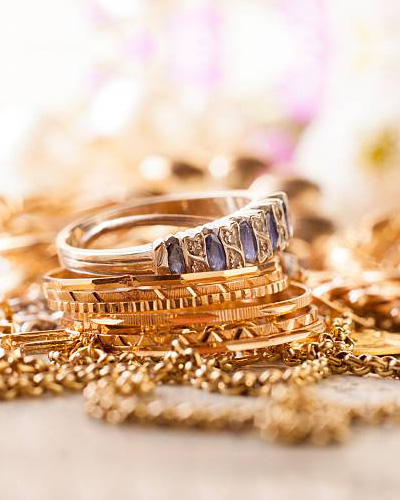
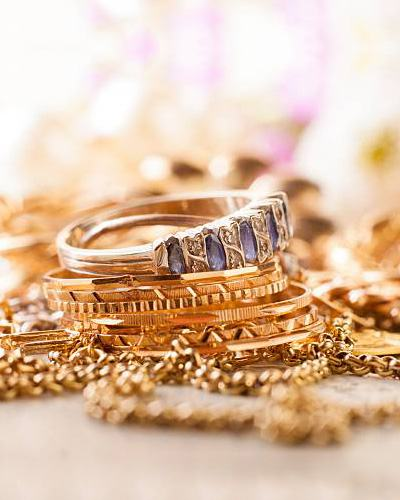
Gold Exchange preview: readability and load-speed pass
Sentence-case card and section headings, readable manifesto at rest, gallery
descriptions always visible, plainer hero copy, gold objects kept out of the text
zones, 3+2 benefit grid on laptops, stat numbers fixed, shorter loader, lower pixel
ratio and particle count, compressed photos and logo, lazy-loaded images.

Claude-Session: https://claude.ai/code/session_013mK6Kfmv34ExVKnmXmT2bB

diff --git a/clients/gold-exchange/css/style.css b/clients/gold-exchange/css/style.css
@@ -5,7 +5,7 @@
 :root{
   --bg:#070A12; --bg-2:#0B1120; --bg-3:#0F1628; --navy:#16202F; --navy-2:#1F4579;
   --gold:#F7A51C; --gold-2:#FBB033; --gold-deep:#B8720A; --gold-light:#FFE08A; --gold-pale:#FFF1C9;
-  --ivory:#F5EFE3; --ivory-2:#D9D2C5; --muted:#98A2B3; --muted-2:#6B7382;
+  --ivory:#F5EFE3; --ivory-2:#D9D2C5; --muted:#A6AFBF; --muted-2:#6B7382;
   --line:rgba(247,165,28,.16); --line-2:rgba(255,255,255,.08); --glass:rgba(13,18,34,.62);
   --display:"Syne",sans-serif; --body:"Inter",system-ui,-apple-system,"Segoe UI",Roboto,sans-serif;
   --metal:linear-gradient(110deg,#FFE9A8 0%,#F7A51C 28%,#B8720A 52%,#FFD873 76%,#F7A51C 100%);
@@ -42,9 +42,9 @@ ul{list-style:none}
 main{position:relative;z-index:1}
 
 /* ---------- Typography ---------- */
-.display{font-family:var(--display);font-weight:800;letter-spacing:-.03em;line-height:.92;text-transform:uppercase}
+.display{font-family:var(--display);font-weight:800;letter-spacing:-.02em;line-height:.94;text-transform:uppercase}
 .h1{font-size:clamp(30px,min(8.6vw,15.5vh),140px)}
-.h2{font-size:clamp(30px,6.2vw,96px)}
+.h2{font-size:clamp(30px,5.4vw,84px)}
 .h3{font-size:clamp(26px,3.2vw,44px);line-height:1.02}
 .h4{font-family:var(--display);font-weight:700;font-size:clamp(19px,1.6vw,24px);line-height:1.15;letter-spacing:-.01em}
 .metal{background:var(--metal);background-size:220% 100%;-webkit-background-clip:text;background-clip:text;color:transparent;animation:shine 6s linear infinite}
@@ -52,7 +52,7 @@ main{position:relative;z-index:1}
 .outline{color:transparent;-webkit-text-stroke:1px rgba(247,165,28,.55)}
 .eyebrow{display:inline-flex;align-items:center;gap:14px;font-size:12px;font-weight:600;letter-spacing:.22em;text-transform:uppercase;color:var(--gold)}
 .eyebrow::before{content:"";width:34px;height:1px;background:var(--gold)}
-.lede{font-size:clamp(17px,1.35vw,21px);line-height:1.55;color:var(--ivory-2);max-width:62ch}
+.lede{font-size:clamp(17px,1.35vw,21px);line-height:1.6;color:var(--ivory-2);max-width:60ch}
 .small{font-size:13px;color:var(--muted)}
 p a{color:var(--gold)}
 
@@ -94,7 +94,7 @@ section{position:relative}
 
 /* ---------- Cursor ---------- */
 .cursor{position:fixed;left:0;top:0;z-index:999;pointer-events:none;mix-blend-mode:normal}
-.cursor-dot{position:absolute;width:6px;height:6px;border-radius:50%;background:var(--gold);transform:translate(-50%,-50%)}
+.cursor-dot{position:absolute;width:8px;height:8px;border-radius:50%;background:var(--gold);transform:translate(-50%,-50%)}
 .cursor-ring{position:absolute;width:40px;height:40px;border-radius:50%;border:1px solid rgba(247,165,28,.7);transform:translate(-50%,-50%);display:grid;place-items:center;transition:width .4s var(--ease),height .4s var(--ease),background .4s,border-color .4s}
 .cursor-label{font-size:11px;font-weight:700;letter-spacing:.18em;color:#140C00;opacity:0;transition:opacity .3s}
 .cursor.is-link .cursor-ring{width:64px;height:64px;background:rgba(247,165,28,.15)}
@@ -139,6 +139,8 @@ section{position:relative}
 
 /* ---------- Hero ---------- */
 .hero{min-height:100vh;min-height:100svh;display:grid;align-items:end;padding:calc(var(--nav-h) + 40px) 0 0;overflow:hidden}
+.hero::before{content:"";position:absolute;inset:0 0 auto 0;height:260px;background:linear-gradient(180deg,rgba(7,10,18,.9),rgba(7,10,18,.55) 45%,transparent);pointer-events:none;z-index:0}
+.hero>*{position:relative;z-index:1}
 .hero-grid{display:grid;grid-template-columns:1fr;gap:clamp(18px,3vh,34px);padding-bottom:clamp(96px,13vh,150px)}
 .hero-eyebrow{display:flex;flex-wrap:wrap;gap:10px 18px;align-items:center;font-size:12px;letter-spacing:.2em;text-transform:uppercase;color:var(--gold);font-weight:600}
 .hero-eyebrow .sep{width:4px;height:4px;border-radius:50%;background:var(--gold);opacity:.6}
@@ -158,6 +160,7 @@ section{position:relative}
 .scroll-cue i{width:1px;height:46px;background:linear-gradient(var(--gold),transparent);display:block;animation:cue 1.8s var(--ease) infinite;transform-origin:top}
 @keyframes cue{0%{transform:scaleY(0);opacity:0}40%{transform:scaleY(1);opacity:1}100%{transform:scaleY(1) translateY(30px);opacity:0}}
 @media (max-width:1300px){.scroll-cue{display:none}}
+@media (max-width:600px){.hero-eyebrow .sep,.hero-eyebrow .place{display:none}}
 @media (max-width:900px){.hero-bottom{grid-template-columns:1fr}.hero-trust{justify-content:flex-start}.hero-grid{padding-bottom:110px}}
 
 /* ---------- Ticker ---------- */
@@ -178,16 +181,16 @@ section{position:relative}
 
 /* ---------- Manifesto ---------- */
 .manifesto{padding:clamp(120px,16vw,220px) 0 clamp(80px,10vw,140px)}
-.manifesto .words{font-family:var(--display);font-weight:800;text-transform:uppercase;letter-spacing:-.025em;line-height:1.02;font-size:clamp(26px,4.7vw,70px);max-width:1280px}
-.manifesto .words .w{color:rgba(245,239,227,.14);transition:none}
-.manifesto .words .w.gold{color:rgba(247,165,28,.2)}
+.manifesto .words{font-family:var(--display);font-weight:700;letter-spacing:-.015em;line-height:1.14;font-size:clamp(24px,3.7vw,54px);max-width:1180px;text-wrap:pretty}
+.manifesto .words .w{color:rgba(245,239,227,.5);transition:none}
+.manifesto .words .w.gold{color:rgba(247,165,28,.6)}
 .stats{display:grid;grid-template-columns:repeat(4,1fr);gap:1px;background:var(--line-2);border:1px solid var(--line-2);margin-top:clamp(70px,9vw,130px)}
 .stat{background:var(--bg);padding:clamp(26px,3vw,44px) clamp(20px,2.4vw,36px);display:grid;gap:10px;position:relative;overflow:hidden}
 .stat::after{content:"";position:absolute;inset:auto 0 0 0;height:2px;background:var(--metal);transform:scaleX(0);transform-origin:left;transition:transform .8s var(--ease)}
 .stat:hover::after{transform:scaleX(1)}
-.stat b{font-family:var(--display);font-weight:800;font-size:clamp(44px,5.2vw,84px);line-height:.95;letter-spacing:-.04em;color:var(--ivory);font-variant-numeric:tabular-nums}
+.stat b{font-family:var(--display);font-weight:800;font-size:clamp(34px,4.2vw,64px);line-height:.95;letter-spacing:-.04em;color:var(--ivory);font-variant-numeric:tabular-nums;white-space:nowrap}
 .stat b small{font-size:.5em;color:var(--gold);vertical-align:top;letter-spacing:0}
-.stat span{font-size:13px;letter-spacing:.14em;text-transform:uppercase;color:var(--muted)}
+.stat>span{font-size:13px;letter-spacing:.14em;text-transform:uppercase;color:var(--muted)}
 @media (max-width:900px){.stats{grid-template-columns:repeat(2,1fr)}}
 
 /* ---------- Marquee strip ---------- */
@@ -216,11 +219,11 @@ section{position:relative}
 .buy-card .num{position:absolute;top:22px;left:22px;z-index:2;font-family:var(--display);font-weight:800;font-size:14px;letter-spacing:.2em;color:var(--gold)}
 .buy-card .tag{position:absolute;top:20px;right:20px;z-index:2;font-size:11px;letter-spacing:.16em;text-transform:uppercase;padding:7px 12px;border-radius:999px;background:rgba(7,10,18,.55);border:1px solid var(--line-2);color:var(--ivory-2);backdrop-filter:blur(6px)}
 .buy-card .body{position:absolute;left:0;right:0;bottom:0;z-index:2;padding:26px 24px 26px;display:grid;gap:0}
-.buy-card .body h3{font-family:var(--display);font-weight:800;text-transform:uppercase;letter-spacing:-.02em;font-size:clamp(22px,1.9vw,28px);line-height:.95}
-.buy-card .body p{font-size:14px;line-height:1.55;color:var(--ivory-2);opacity:0;max-height:0;overflow:hidden;transition:opacity .6s .1s,max-height .8s var(--ease),margin .8s var(--ease)}
-.buy-card:hover .body p{opacity:1;max-height:160px;margin-top:12px}
+.buy-card .body h3{font-family:var(--display);font-weight:800;letter-spacing:-.015em;font-size:clamp(22px,1.8vw,27px);line-height:1.02;text-wrap:balance}
+.buy-card .body p{font-size:14.5px;line-height:1.55;color:var(--ivory-2);margin-top:10px}
 .buy-card .body .more{display:inline-flex;align-items:center;gap:8px;font-size:13px;font-weight:600;color:var(--gold);opacity:0;max-height:0;overflow:hidden;transition:opacity .6s .2s,max-height .8s var(--ease),margin .8s var(--ease)}
 .buy-card:hover .body .more{opacity:1;max-height:40px;margin-top:12px}
+@media (hover:none){.buy-card .body .more{opacity:1;max-height:40px;margin-top:12px}}
 .buy-card.cta-card{display:grid;place-items:center;text-align:center;background:linear-gradient(160deg,#1A2436,#0B1120);padding:30px}
 .buy-card.cta-card::before{display:none}
 .buy-card.cta-card .h3{margin-bottom:22px}
@@ -232,7 +235,7 @@ section{position:relative}
   .buy-track{overflow-x:auto;scroll-snap-type:x mandatory;-webkit-overflow-scrolling:touch;padding-bottom:10px;width:auto}
   .buy-track::-webkit-scrollbar{display:none}
   .buy-card{scroll-snap-align:start;width:78vw;height:68vh}
-  .buy-card .body p,.buy-card .body .more{opacity:1;max-height:200px;margin-top:12px}
+  .buy-card .body .more{opacity:1;max-height:40px;margin-top:12px}
 }
 
 /* ---------- Estimate calculator ---------- */
@@ -301,8 +304,8 @@ section{position:relative}
 .step:hover{border-color:rgba(247,165,28,.45)}
 .step .dot{position:absolute;left:calc(-1 * clamp(44px,5vw,80px) + 6px);top:50%;width:18px;height:18px;border-radius:50%;background:var(--bg);border:2px solid var(--gold);transform:translateY(-50%);box-shadow:0 0 0 6px rgba(247,165,28,.08)}
 .step .n{font-family:var(--display);font-weight:800;font-size:13px;letter-spacing:.24em;color:var(--gold);margin-bottom:14px}
-.step h3{font-family:var(--display);font-weight:800;text-transform:uppercase;letter-spacing:-.02em;font-size:clamp(22px,2.4vw,36px);line-height:.98;margin-bottom:14px;overflow-wrap:anywhere}
-.step p{color:var(--ivory-2);font-size:15px}
+.step h3{font-family:var(--display);font-weight:800;letter-spacing:-.015em;font-size:clamp(22px,2.2vw,32px);line-height:1.05;margin-bottom:12px;text-wrap:balance}
+.step p{color:var(--ivory-2);font-size:16px}
 .step .pic{width:160px;aspect-ratio:1;border-radius:18px;overflow:hidden;background:var(--navy)}
 .step .pic img{width:100%;height:100%;object-fit:cover}
 @media (max-width:980px){.how-grid{grid-template-columns:1fr}.how-sticky{position:static}}
@@ -317,17 +320,17 @@ section{position:relative}
 .why-card .ic{width:56px;height:56px;border-radius:16px;display:grid;place-items:center;background:rgba(247,165,28,.1);border:1px solid var(--line)}
 .why-card .ic img{width:28px;height:28px;object-fit:contain;filter:brightness(0) saturate(100%) invert(72%) sepia(60%) saturate(1500%) hue-rotate(350deg) brightness(102%) contrast(96%)}
 .why-card .ic svg{width:26px;height:26px;stroke:var(--gold);fill:none;stroke-width:1.5}
-.why-card h3{font-family:var(--display);font-weight:800;text-transform:uppercase;letter-spacing:-.02em;font-size:clamp(16px,1.15vw,18px);line-height:1.08}
-.why-card p{font-size:14px;color:var(--muted);line-height:1.6}
+.why-card h3{font-family:var(--display);font-weight:700;letter-spacing:-.01em;font-size:clamp(18px,1.3vw,21px);line-height:1.15;text-wrap:balance}
+.why-card p{font-size:15px;color:var(--muted);line-height:1.6}
 .why-card .idx{position:absolute;top:18px;right:18px;font-family:var(--display);font-weight:800;font-size:12px;letter-spacing:.2em;color:var(--muted-2)}
-@media (max-width:1200px){.why-grid{grid-template-columns:repeat(3,1fr)}}
+@media (max-width:1200px){.why-grid{grid-template-columns:repeat(6,1fr)}.why-card{grid-column:span 2}.why-card:nth-child(4),.why-card:nth-child(5){grid-column:span 3}}
 @media (max-width:720px){.why-grid{grid-template-columns:1fr}.why-card{min-height:0}}
 
 .guarantee{margin-top:clamp(40px,5vw,70px);display:grid;grid-template-columns:auto 1fr auto;gap:clamp(20px,3vw,50px);align-items:center;padding:clamp(24px,3vw,44px);border-radius:28px;border:1px solid var(--line);background:linear-gradient(120deg,rgba(247,165,28,.12),rgba(31,69,121,.18))}
 .guarantee .seal{width:140px;height:140px;padding:14px;border-radius:50%;display:grid;place-items:center;background:var(--metal);color:#140C00;font-family:var(--display);font-weight:800;font-size:10px;letter-spacing:.1em;text-align:center;line-height:1.3;text-transform:uppercase;box-shadow:0 20px 60px -20px rgba(247,165,28,.8);animation:spin 18s linear infinite;position:relative}
 .guarantee .seal b{display:block;font-size:26px;letter-spacing:-.02em;margin-bottom:2px}
 @keyframes spin{to{filter:hue-rotate(0)}}
-.guarantee h3{font-family:var(--display);font-weight:800;text-transform:uppercase;letter-spacing:-.02em;font-size:clamp(24px,2.6vw,40px);line-height:1}
+.guarantee h3{font-family:var(--display);font-weight:800;letter-spacing:-.015em;font-size:clamp(24px,2.6vw,40px);line-height:1.05}
 .guarantee p{color:var(--ivory-2);margin-top:10px;max-width:60ch}
 @media (max-width:900px){.guarantee{grid-template-columns:1fr}}
 
@@ -340,7 +343,7 @@ section{position:relative}
 .svc-media .badge{position:absolute;left:22px;bottom:22px;padding:10px 16px;border-radius:999px;background:rgba(7,10,18,.65);backdrop-filter:blur(8px);border:1px solid var(--line);font-size:12px;letter-spacing:.14em;text-transform:uppercase;color:var(--gold)}
 .svc-body{display:grid;gap:22px}
 .svc-body .n{font-family:var(--display);font-weight:800;font-size:clamp(60px,7vw,110px);line-height:.8;letter-spacing:-.05em;color:transparent;-webkit-text-stroke:1px rgba(247,165,28,.5)}
-.svc-body h3{font-family:var(--display);font-weight:800;text-transform:uppercase;letter-spacing:-.025em;font-size:clamp(22px,3.6vw,56px);line-height:.95}
+.svc-body h3{font-family:var(--display);font-weight:800;letter-spacing:-.02em;font-size:clamp(26px,3.2vw,48px);line-height:1.02;text-wrap:balance}
 @media (max-width:420px){.svc-body h3,.display{overflow-wrap:anywhere}}
 .svc-body p{color:var(--ivory-2);font-size:16px}
 .svc-more{overflow:hidden;height:0;opacity:0}
@@ -372,7 +375,7 @@ section{position:relative}
 .invest-body{display:grid;gap:24px}
 .invest-body ul{display:grid;grid-template-columns:1fr 1fr;gap:14px}
 .invest-body li{padding:18px 20px;border-radius:18px;border:1px solid var(--line-2);background:rgba(13,18,34,.5);font-size:14px;color:var(--ivory-2)}
-.invest-body li b{display:block;font-family:var(--display);font-weight:800;text-transform:uppercase;font-size:15px;color:var(--ivory);margin-bottom:4px}
+.invest-body li b{display:block;font-family:var(--display);font-weight:700;font-size:17px;color:var(--ivory);margin-bottom:4px}
 @media (max-width:900px){.invest-grid{grid-template-columns:1fr}.invest-body ul{grid-template-columns:1fr}}
 
 /* ---------- Reviews ---------- */
@@ -404,8 +407,8 @@ section{position:relative}
 .loc:hover{border-color:rgba(247,165,28,.55);transform:translateY(-6px)}
 .loc::before{content:"";position:absolute;right:-60px;top:-60px;width:220px;height:220px;border-radius:50%;background:radial-gradient(circle,rgba(247,165,28,.22),transparent 65%);opacity:.6}
 .loc>*{position:relative}
-.loc .city{font-family:var(--display);font-weight:800;text-transform:uppercase;letter-spacing:-.03em;font-size:clamp(22px,2vw,30px);line-height:.95}
-.loc .meta{display:grid;gap:14px;color:var(--ivory-2);font-size:15px}
+.loc .city{font-family:var(--display);font-weight:800;letter-spacing:-.02em;font-size:clamp(26px,2.4vw,36px);line-height:1}
+.loc .meta{display:grid;gap:14px;color:var(--ivory-2);font-size:16px}
 .loc .meta b{display:block;font-size:11px;letter-spacing:.2em;text-transform:uppercase;color:var(--muted);margin-bottom:4px;font-weight:600}
 .loc .meta a.tel{font-family:var(--display);font-weight:700;font-size:22px;color:var(--gold);letter-spacing:-.01em}
 .loc .status{display:inline-flex;align-items:center;gap:8px;font-size:12px;font-weight:600;color:#2ED47A}
@@ -442,7 +445,7 @@ section{position:relative}
 .post .body{padding:26px;display:grid;gap:14px;align-content:start}
 .post .date{font-size:12px;letter-spacing:.16em;text-transform:uppercase;color:var(--gold)}
 .post h3{font-family:var(--display);font-weight:700;font-size:20px;line-height:1.15;letter-spacing:-.01em}
-.post p{font-size:14px;color:var(--muted);display:-webkit-box;-webkit-line-clamp:3;-webkit-box-orient:vertical;overflow:hidden}
+.post p{font-size:15px;color:var(--muted);display:-webkit-box;-webkit-line-clamp:3;-webkit-box-orient:vertical;overflow:hidden}
 @media (max-width:980px){.news-grid{grid-template-columns:1fr}}
 
 /* ---------- Contact ---------- */

diff --git a/clients/gold-exchange/index.html b/clients/gold-exchange/index.html
@@ -11,9 +11,10 @@
 <meta property="og:description" content="Top cash for scrap gold, jewellery, diamonds, watches, bullion and coins. Free on-the-spot valuations. Highest payout guaranteed. Sydney · Wollongong · Newcastle.">
 <meta property="og:image" content="assets/og.jpg">
 <meta name="twitter:card" content="summary_large_image">
-<link rel="icon" href="assets/favicon.ico">
 <link rel="icon" type="image/png" sizes="256x256" href="assets/favicon-256.png">
 <link rel="apple-touch-icon" href="assets/favicon-256.png">
+<link rel="preconnect" href="https://cdnjs.cloudflare.com" crossorigin>
+<link rel="preconnect" href="https://cdn.jsdelivr.net" crossorigin>
 <link rel="preconnect" href="https://fonts.googleapis.com">
 <link rel="preconnect" href="https://fonts.gstatic.com" crossorigin>
 <link href="https://fonts.googleapis.com/css2?family=Syne:wght@700;800&family=Inter:wght@400;500;600&display=swap" rel="stylesheet">
@@ -100,7 +101,7 @@
     </h1>
     <div class="hero-bottom">
       <div data-hero="copy">
-        <p class="lede">Free valuations on the spot. Highest payout guaranteed. No hidden commissions or fees. Thirty-plus years in gold and diamonds, and still Australian owned and operated.</p>
+        <p class="lede">Bring in your gold, jewellery, diamonds, watches, coins or bullion. We test and weigh it in front of you, give you a free valuation on the spot, and pay cash the same day. No hidden commissions or fees.</p>
         <div class="hero-ctas">
           <a class="btn btn-gold magnetic" href="#contact">Get a free valuation <svg viewBox="0 0 24 24" fill="none" stroke="currentColor" stroke-width="2"><path d="M5 12h14M13 6l6 6-6 6"/></svg></a>
           <a class="btn btn-ghost magnetic" href="#estimate">What's my gold worth?</a>
@@ -153,16 +154,16 @@
     </div>
     <div class="buy-track" id="buyTrack" data-cursor="drag">
       <!-- buy cards -->
-      <article class="buy-card"><img src="assets/cat-scrap-gold.jpg" alt="Scrap gold" loading="lazy"><span class="num">01</span><span class="tag">Any karat</span><div class="body"><h3>Scrap<br>Gold</h3><p>We buy broken and scratched jewellery, gold and precious metals, even gold teeth. We’ll tell you what carat it is, and remove and return any stones at no extra cost.</p><a class="more" href="#contact">Get it valued →</a></div></article>
-      <article class="buy-card"><img src="assets/cat-fine-jewellery.jpg" alt="Fine jewellery" loading="lazy"><span class="num">02</span><span class="tag">Old &amp; new</span><div class="body"><h3>Fine<br>Jewellery</h3><p>Gold jewellery you no longer wear? We buy all carats from 8ct to 24ct, in yellow, white, rose and multi-colour gold.</p><a class="more" href="#contact">Get it valued →</a></div></article>
+      <article class="buy-card"><img src="assets/cat-scrap-gold.jpg" alt="Scrap gold" loading="lazy"><span class="num">01</span><span class="tag">Any karat</span><div class="body"><h3>Scrap Gold</h3><p>We buy broken and scratched jewellery, gold and precious metals, even gold teeth. We’ll tell you what carat it is, and remove and return any stones at no extra cost.</p><a class="more" href="#contact">Get it valued →</a></div></article>
+      <article class="buy-card"><img src="assets/cat-fine-jewellery.jpg" alt="Fine jewellery" loading="lazy"><span class="num">02</span><span class="tag">Old &amp; new</span><div class="body"><h3>Fine Jewellery</h3><p>Gold jewellery you no longer wear? We buy all carats from 8ct to 24ct, in yellow, white, rose and multi-colour gold.</p><a class="more" href="#contact">Get it valued →</a></div></article>
       <article class="buy-card"><img src="assets/cat-diamonds.jpg" alt="Diamonds" loading="lazy"><span class="num">03</span><span class="tag">Loose &amp; set</span><div class="body"><h3>Diamonds</h3><p>From loose diamonds to diamond rings, earrings and pendants, our experts give you a free valuation based on the international diamond wholesale market.</p><a class="more" href="#contact">Get it valued →</a></div></article>
-      <article class="buy-card"><img src="assets/cat-watches.jpg" alt="Watches and fob watches" loading="lazy"><span class="num">04</span><span class="tag">Brand name</span><div class="body"><h3>Watches &amp;<br>Fob Watches</h3><p>We buy gold watches and fob watches in any condition, even broken. We also buy non-gold watches, such as stainless steel, from luxury brands like Rolex, Breitling and TAG Heuer.</p><a class="more" href="#contact">Get it valued →</a></div></article>
+      <article class="buy-card"><img src="assets/cat-watches.jpg" alt="Watches and fob watches" loading="lazy"><span class="num">04</span><span class="tag">Brand name</span><div class="body"><h3>Watches &amp; Fob Watches</h3><p>We buy gold watches and fob watches in any condition, even broken. We also buy non-gold watches, such as stainless steel, from luxury brands like Rolex, Breitling and TAG Heuer.</p><a class="more" href="#contact">Get it valued →</a></div></article>
       <article class="buy-card"><img src="assets/cat-bullion.jpg" alt="Gold bullion" loading="lazy"><span class="num">05</span><span class="tag">Bars &amp; ingots</span><div class="body"><h3>Bullion</h3><p>We buy bullion from 1 gram or 1 ounce up to 1 kilogram. Our price is based on the market spot price, and we usually pay 98% to 101% of market value.</p><a class="more" href="#contact">Get it valued →</a></div></article>
       <article class="buy-card"><img src="assets/cat-coins.jpg" alt="Gold coins" loading="lazy"><span class="num">06</span><span class="tag">Any mint</span><div class="body"><h3>Coins</h3><p>We buy all types of coins, whatever their age, condition or origin, including Australian Kangaroo and Nugget coins, Krugerrands and Sovereigns. Most are worth their bullion value.</p><a class="more" href="#contact">Get it valued →</a></div></article>
       <article class="buy-card"><img src="assets/cat-silver.jpg" alt="Silver" loading="lazy"><span class="num">07</span><span class="tag">Sterling &amp; fine</span><div class="body"><h3>Silver</h3><p>Old, broken or new, we buy silver pieces and jewellery, silver bullion and silver cutlery. Come in store for a free valuation if you’re not sure what you have.</p><a class="more" href="#contact">Get it valued →</a></div></article>
       <article class="buy-card"><img src="assets/cat-platinum.jpg" alt="Platinum" loading="lazy"><span class="num">08</span><span class="tag">Pt 950 / 900</span><div class="body"><h3>Platinum</h3><p>Platinum can be very valuable but is easily confused with white gold. Look for hallmarks such as “950” or “PLAT” on your bullion or jewellery.</p><a class="more" href="#contact">Get it valued →</a></div></article>
-      <article class="buy-card"><img src="assets/cat-engagement-rings.jpg" alt="Engagement rings" loading="lazy"><span class="num">09</span><span class="tag">Discreet</span><div class="body"><h3>Engagement<br>Rings</h3><p>Selling an engagement ring or wedding band? Our diamond experts will assess your ring and give you a free valuation.</p><a class="more" href="#contact">Get it valued →</a></div></article>
-      <article class="buy-card"><img src="assets/cat-nuggets.jpg" alt="Gold nuggets and prospect gold" loading="lazy"><span class="num">10</span><span class="tag">Prospectors</span><div class="body"><h3>Nuggets &amp;<br>Prospect Gold</h3><p>We buy gold in any form, including nuggets, gold dust and flakes. We can melt it while you wait and give you an immediate assay of its gold content.</p><a class="more" href="#contact">Get it valued →</a></div></article>
+      <article class="buy-card"><img src="assets/cat-engagement-rings.jpg" alt="Engagement rings" loading="lazy"><span class="num">09</span><span class="tag">Discreet</span><div class="body"><h3>Engagement Rings</h3><p>Selling an engagement ring or wedding band? Our diamond experts will assess your ring and give you a free valuation.</p><a class="more" href="#contact">Get it valued →</a></div></article>
+      <article class="buy-card"><img src="assets/cat-nuggets.jpg" alt="Gold nuggets and prospect gold" loading="lazy"><span class="num">10</span><span class="tag">Prospectors</span><div class="body"><h3>Nuggets &amp; Prospect Gold</h3><p>We buy gold in any form, including nuggets, gold dust and flakes. We can melt it while you wait and give you an immediate assay of its gold content.</p><a class="more" href="#contact">Get it valued →</a></div></article>
       <article class="buy-card cta-card"><div><span class="eyebrow" style="justify-content:center">Not sure?</span><h3 class="display h3" style="margin-top:14px">Bring it in.<br>We'll tell you<br>what it's worth.</h3><a class="btn btn-gold magnetic" href="#contact">Free valuation</a></div></article>
     </div>
     <div class="wrap"><div class="buy-progress"><i id="buyProgress"></i></div></div>
@@ -265,7 +266,7 @@
       <p class="lede" data-reveal style="max-width:44ch">Free valuations of all gold, diamonds and watches, priced on the spot — and we guarantee the highest payout with no hidden commissions or fees.</p>
     </div>
     <div class="reel" data-reveal id="reelWrap">
-      <video id="reel" muted loop playsinline preload="metadata" poster="assets/video-poster.jpg"><source src="https://goldexchange.com.au/wp-content/uploads/2022/11/gold1-official.mp4" type="video/mp4"></video>
+      <video id="reel" muted loop playsinline preload="none" poster="assets/video-poster.jpg"><source src="https://goldexchange.com.au/wp-content/uploads/2022/11/gold1-official.mp4" type="video/mp4"></video>
       <div class="reel-ui"><div><span class="eyebrow">Watch</span><h3 class="h4" style="margin-top:10px">Unwanted gold jewellery? Fifteen seconds inside Gold Exchange.</h3></div><button class="btn btn-ghost btn-sm" id="reelSound" type="button">Sound on</button></div>
     </div>
     <div class="why-grid" data-stagger>
@@ -292,10 +293,11 @@
     <div class="sec-head">
       <span class="eyebrow" data-reveal>Specialist services</span>
       <h2 class="display h2"><span class="line"><span class="line-in">More than</span></span><span class="line"><span class="line-in"><span class="metal">a gold buyer.</span></span></span></h2>
+      <p class="lede" data-reveal>Three specialist services: for executors and families handling an estate, for insolvency practitioners with gold and diamonds to sell, and for jewellers and prospectors who need scrap refined and paid for honestly.</p>
     </div>
 
     <article class="svc">
-      <div class="svc-media" data-img-reveal><img src="assets/svc-estate.jpg" alt="Estate jewellery" data-parallax><span class="badge">Estate jewellery</span></div>
+      <div class="svc-media" data-img-reveal><img src="assets/svc-estate.jpg" alt="Estate jewellery" data-parallax loading="lazy"><span class="badge">Estate jewellery</span></div>
       <div class="svc-body">
         <div class="n" data-reveal>01</div>
         <h3 data-reveal>Estate Jewellery Specialists</h3>
@@ -314,7 +316,7 @@
     </article>
 
     <article class="svc flip">
-      <div class="svc-media" data-img-reveal><img src="assets/svc-liquidators.jpg" alt="Liquidators, receivers and administrators" data-parallax><span class="badge">Insolvency</span></div>
+      <div class="svc-media" data-img-reveal><img src="assets/svc-liquidators.jpg" alt="Liquidators, receivers and administrators" data-parallax loading="lazy"><span class="badge">Insolvency</span></div>
       <div class="svc-body">
         <div class="n" data-reveal>02</div>
         <h3 data-reveal>Liquidators, Receivers &amp; Administrators</h3>
@@ -333,7 +335,7 @@
     </article>
 
     <article class="svc">
-      <div class="svc-media" data-img-reveal><img src="assets/svc-refining.jpg" alt="Refining and assaying" data-parallax><span class="badge">Trade &amp; industry</span></div>
+      <div class="svc-media" data-img-reveal><img src="assets/svc-refining.jpg" alt="Refining and assaying" data-parallax loading="lazy"><span class="badge">Trade &amp; industry</span></div>
       <div class="svc-body">
         <div class="n" data-reveal>03</div>
         <h3 data-reveal>Refining &amp; Assaying</h3>

diff --git a/clients/gold-exchange/js/scene.js b/clients/gold-exchange/js/scene.js
@@ -20,7 +20,7 @@ try {
 }
 
 if (renderer && !reduce) {
-  renderer.setPixelRatio(Math.min(devicePixelRatio || 1, isMobile ? 1.5 : 1.75));
+  renderer.setPixelRatio(Math.min(devicePixelRatio || 1, isMobile ? 1.25 : 1.5));
   renderer.setSize(innerWidth, innerHeight, false);
   renderer.setClearColor(0x000000, 0);
   renderer.toneMapping = THREE.ACESFilmicToneMapping;
@@ -80,21 +80,21 @@ if (renderer && !reduce) {
   // ---------- hero objects ----------
   const heroGroup = new THREE.Group(); scene.add(heroGroup);
   const defs = isMobile ? [
-    { kind: 'ingot', pos: [3.0, 3.4, -2], s: 1.0 },
-    { kind: 'coin', pos: [-3.2, 4.6, -3], s: 0.9 },
-    { kind: 'nugget', pos: [3.4, -0.5, 0], s: 0.7 },
-    { kind: 'coin', pos: [4.4, 1.2, -6], s: 1.1 },
-    { kind: 'ingot', pos: [-4.5, 0.4, -7], s: 1.1 },
+    { kind: 'ingot', pos: [1.7, 5.0, -2], s: 0.9 },
+    { kind: 'coin', pos: [-1.7, 5.4, -3], s: 0.85 },
+    { kind: 'nugget', pos: [3.2, 4.2, -9], s: 0.7 },
+    { kind: 'coin', pos: [-3.4, 2.6, -7], s: 1.0 },
+    { kind: 'ingot', pos: [3.2, -2.6, -5], s: 0.9 },
   ] : [
-    { kind: 'ingot', pos: [6.0, 1.4, -1], s: 1.25 },
-    { kind: 'coin', pos: [-6.2, 3.4, -3], s: 1.0 },
-    { kind: 'nugget', pos: [3.4, -3.0, 0.6], s: 0.8 },
-    { kind: 'coin', pos: [8.2, -2.4, -4], s: 1.3 },
-    { kind: 'ingot', pos: [-7.4, -3.0, -5.5], s: 1.1 },
-    { kind: 'nugget', pos: [7.0, 4.6, -6], s: 1.1 },
-    { kind: 'coin', pos: [-2.2, 4.8, -7.5], s: 1.2 },
-    { kind: 'ingot', pos: [1.6, 4.2, -4.5], s: 0.8 },
-    { kind: 'nugget', pos: [-9.0, 1.2, -1.5], s: 0.55 },
+    { kind: 'ingot', pos: [6.2, 1.6, -1], s: 1.25 },
+    { kind: 'coin', pos: [-6.4, 4.6, -3], s: 1.0 },
+    { kind: 'nugget', pos: [7.4, -0.6, -0.5], s: 0.8 },
+    { kind: 'coin', pos: [8.6, 2.8, -4], s: 1.3 },
+    { kind: 'ingot', pos: [3.6, 5.2, -6], s: 1.1 },
+    { kind: 'nugget', pos: [7.2, 5.0, -6], s: 1.0 },
+    { kind: 'coin', pos: [-2.2, 5.6, -7.5], s: 1.2 },
+    { kind: 'ingot', pos: [1.2, 4.9, -4.5], s: 0.8 },
+    { kind: 'nugget', pos: [-8.8, 0.6, -2.5], s: 0.55 },
   ];
   const objs = defs.map((d, i) => {
     let mesh;
@@ -125,7 +125,7 @@ if (renderer && !reduce) {
   api.spinBar = (dx) => { barState.vel += dx * 0.01; };
 
   // ---------- gold dust ----------
-  const COUNT = isMobile ? 800 : 2400;
+  const COUNT = isMobile ? 600 : 2000;
   const pos = new Float32Array(COUNT * 3);
   const aSize = new Float32Array(COUNT);
   const aPhase = new Float32Array(COUNT);

diff --git a/clients/gold-exchange/js/app.js b/clients/gold-exchange/js/app.js
@@ -182,11 +182,11 @@ const introTl = gsap.timeline({ paused: true })
   gsap.set(['[data-hero="eyebrow"]', '[data-hero="cue"]', '[data-hero="copy"] > *', '[data-hero="trust"] > div', '.nav'], { opacity: 0 });
   gsap.set('[data-hero="ticker"]', { yPercent: 100 });
   const tl = gsap.timeline({ onComplete: () => { $('#loader').remove(); lenis && lenis.start(); } });
-  tl.to(n, { v: 100, duration: 1.5, ease: 'power2.inOut', onUpdate: () => { num.textContent = Math.round(n.v); } })
-    .to('#loader .ld-bar i', { scaleX: 1, duration: 1.5, ease: 'power2.inOut' }, 0)
-    .to('#loader .ld-in', { y: -50, opacity: 0, duration: .55, ease: 'power3.in' }, '-=.05')
-    .to('#loader', { yPercent: -100, duration: 1, ease: 'expo.inOut' }, '-=.2')
-    .add(() => { introTl.play(); gx().intro(); setTimeout(() => window.__startRotator && window.__startRotator(), 1800); }, '-=.75');
+  tl.to(n, { v: 100, duration: .9, ease: 'power2.inOut', onUpdate: () => { num.textContent = Math.round(n.v); } })
+    .to('#loader .ld-bar i', { scaleX: 1, duration: .9, ease: 'power2.inOut' }, 0)
+    .to('#loader .ld-in', { y: -40, opacity: 0, duration: .4, ease: 'power3.in' }, '-=.05')
+    .to('#loader', { yPercent: -100, duration: .8, ease: 'expo.inOut' }, '-=.15')
+    .add(() => { introTl.play(); gx().intro(); setTimeout(() => window.__startRotator && window.__startRotator(), 1800); }, '-=.6');
 })();
 
 /* ---------------- counters ---------------- */
@@ -206,10 +206,10 @@ $$('[data-count]').filter((el) => !el.closest('.hero')).forEach((el) => {
 if (!reduce) {
   const title = $('#heroTitle');
   ScrollTrigger.create({
-    trigger: '.hero', start: 'top top', end: isMobile ? '+=70%' : '+=110%', pin: true, pinSpacing: true, scrub: true,
+    trigger: '.hero', start: 'top top', end: isMobile ? '+=55%' : '+=75%', pin: true, pinSpacing: true, scrub: true,
     onUpdate: (s) => {
       const p = s.progress;
-      gsap.set(title, { scale: 1 + p * 1.1, opacity: 1 - Math.min(1, p * 1.45), filter: `blur(${p * 14}px)`, transformOrigin: '0% 100%' });
+      gsap.set(title, { scale: 1 + p * 0.9, opacity: 1 - Math.min(1, p * 1.5), filter: `blur(${p * 10}px)`, transformOrigin: '0% 100%' });
       gsap.set('.hero-bottom, .hero-eyebrow', { opacity: 1 - Math.min(1, p * 2.2), y: p * -60 });
       gsap.set('[data-hero="cue"]', { opacity: 1 - Math.min(1, p * 4) });
       gx().setHero(p);

diff --git a/clients/gold-exchange/README.md b/clients/gold-exchange/README.md
@@ -46,6 +46,14 @@ calculator, UI), `assets/` (logo, photos pulled from the current site).
 Libraries (CDN, pinned): GSAP 3.12.5 + ScrollTrigger, Lenis 1.1.14, Three.js 0.147 + RoomEnvironment.
 Fonts: Syne (display) + Inter (body) from Google Fonts.
 
+## Load and performance
+
+Measured locally: about 1.1 MB on the first screen before CDN compression (Three.js is 594 KB
+of that and compresses to roughly 150 KB), 1.7 MB for the whole page with every photo. Photos
+below the fold lazy-load. The cost that matters is GPU, not download: the WebGL layer renders
+continuously, so the pixel ratio is capped (1.5 desktop, 1.25 mobile) and the particle count
+drops on phones. The loader runs for about 1.5 s by design.
+
 ## Live prices
 
 Spot prices come from `api.gold-api.com` (XAU/XAG/XPT/XPD in USD) and the AUD rate from
